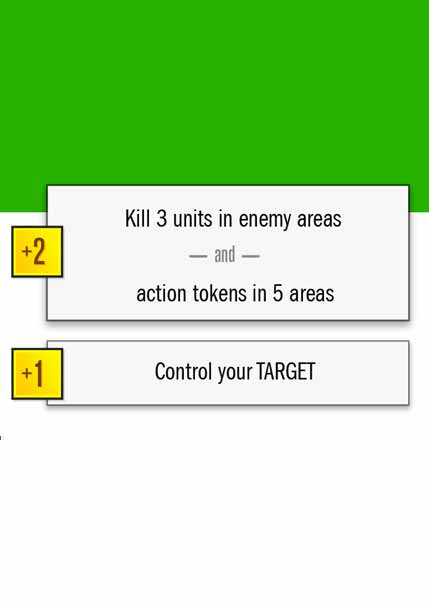
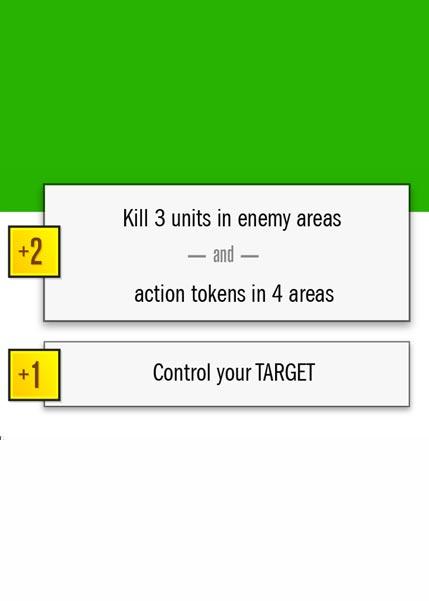
Reduce tokens in area plan to 4 for guerrillas

Changed region(s): [[0.0, 0.2995, 1.0, 0.6889]]

diff --git a/server/classes/factions/plans/guerrillasPlans.js b/server/classes/factions/plans/guerrillasPlans.js
@@ -57,7 +57,7 @@ let obj = [
             {
                 requirements : [
                     { test : 'killsInEnemy', args : [3] },
-                    { test : 'tokensInAreas', args : [5] },
+                    { test : 'tokensInAreas', args : [4] },
                 ],
                 value : 2
             },
